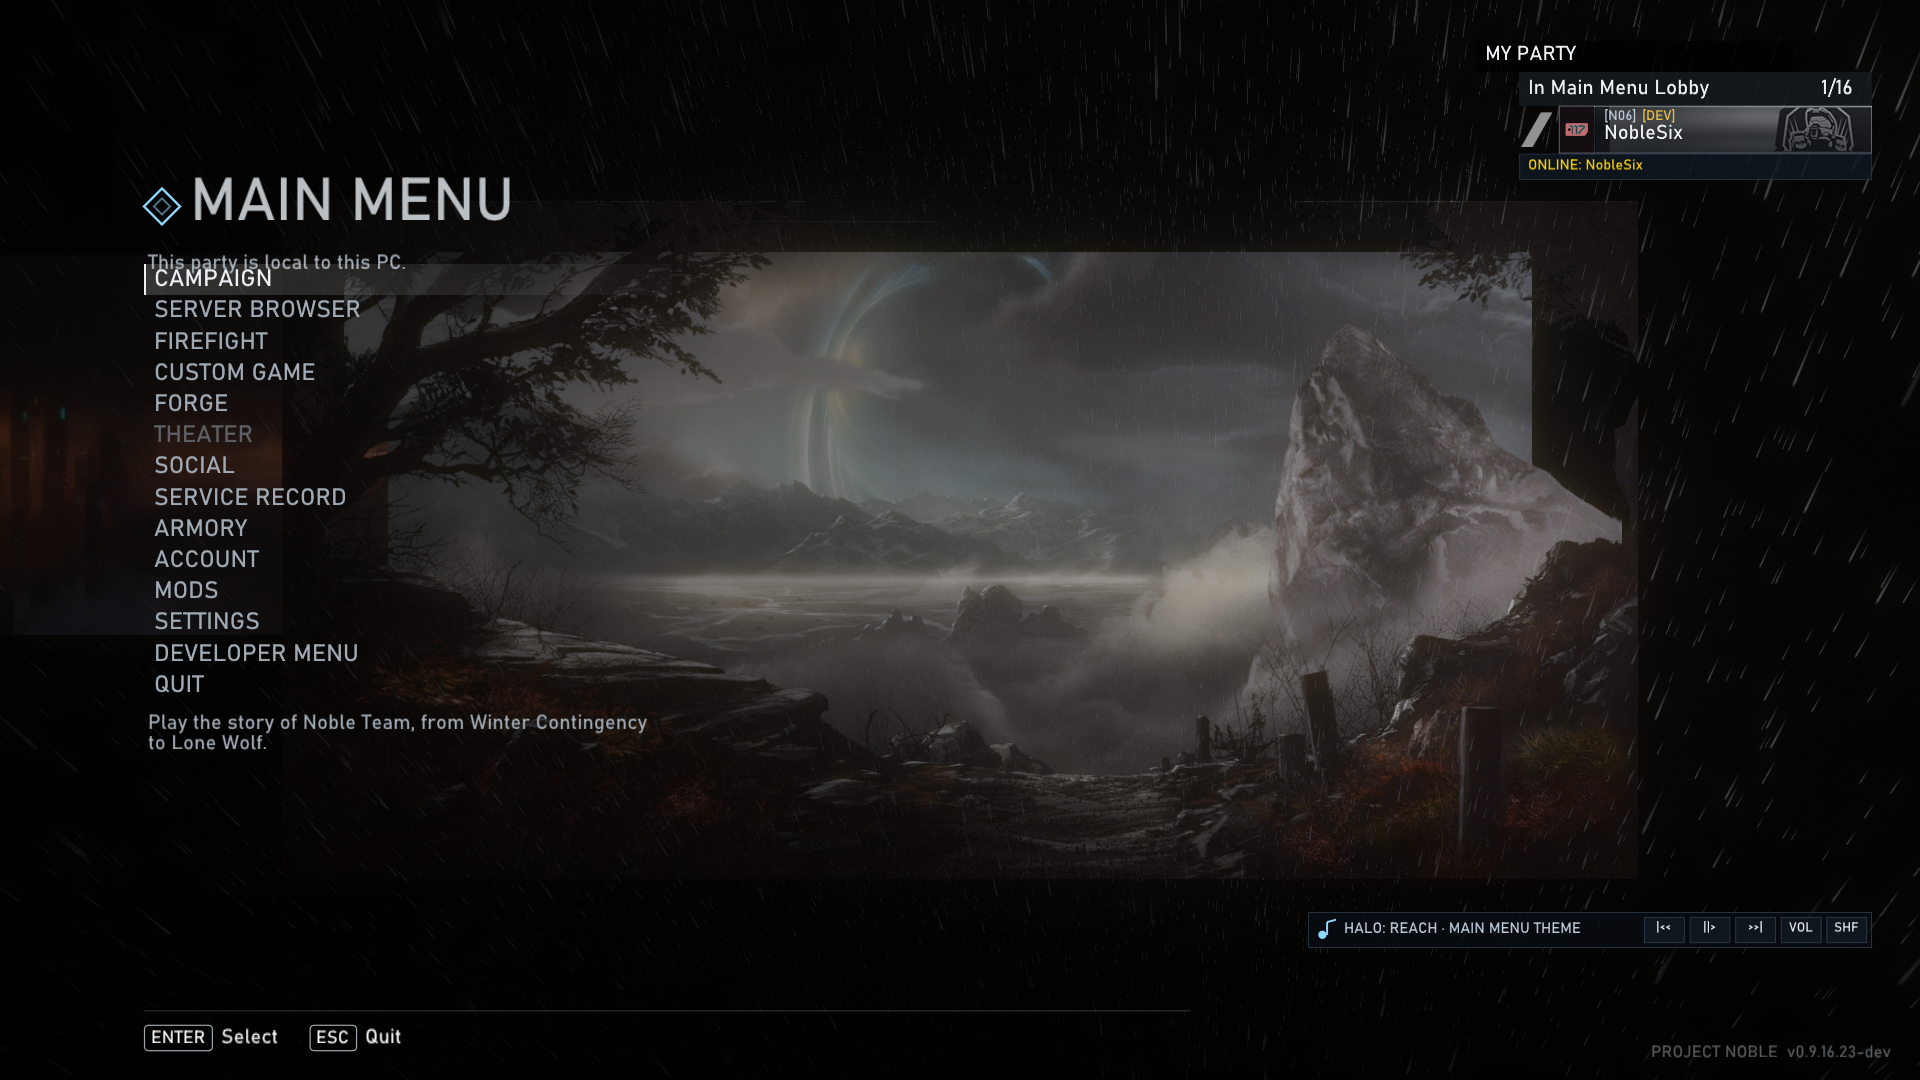
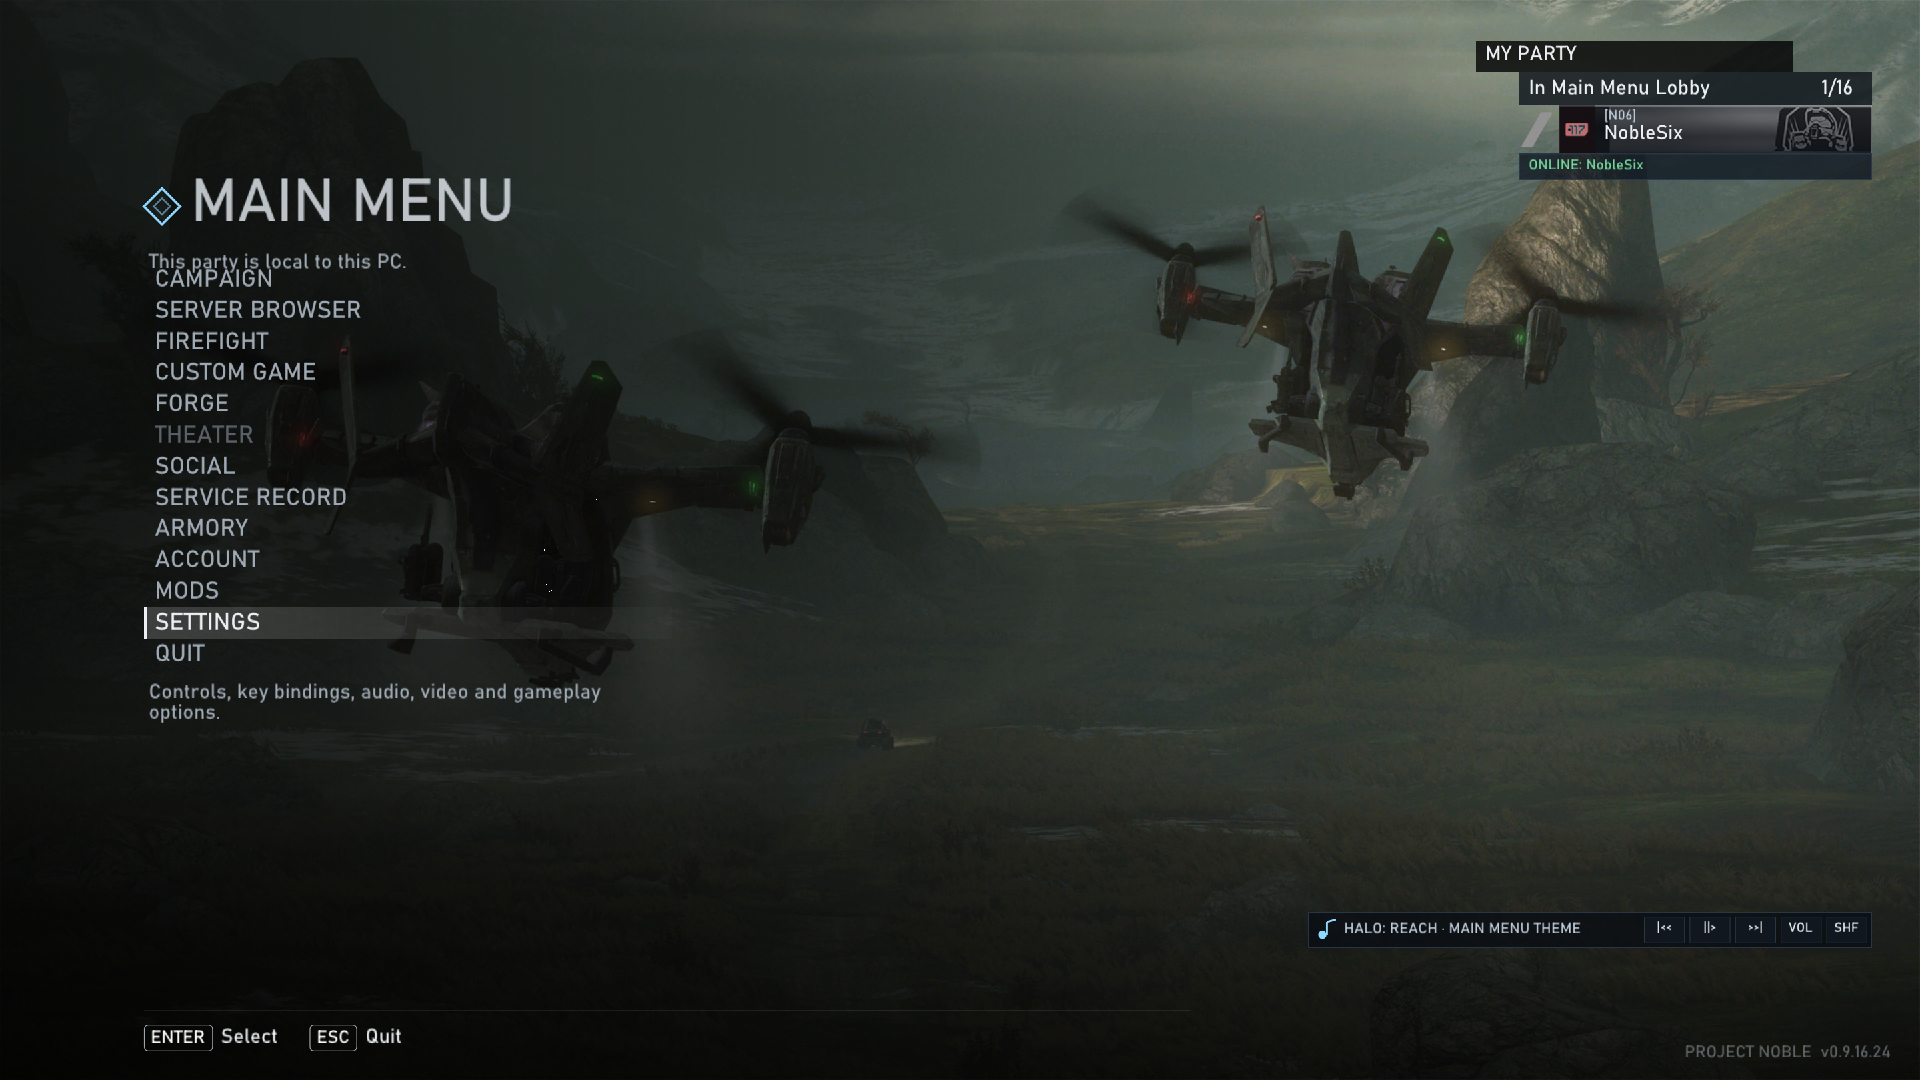
docs: 0.9.16.25 release notes and current screenshots

diff --git a/release-notes/v0.9.16.25.md b/release-notes/v0.9.16.25.md
@@ -1,0 +1,28 @@
+# Project Noble 0.9.16.25
+
+Crisp rendering everywhere, live windowed/borderless switching, and a stable custom menu background.
+
+## Highlights
+
+- **Live borderless full screen.** Windowed and borderless now switch immediately from SETTINGS > GRAPHICS; no game restart. The window is restyled/resized while the engine keeps running.
+- **Native-resolution rendering.** The engine renders at the display's native resolution (or the window's, if larger) instead of at a small window size. Windows then scales the image into the window, so menu text, HUD, subtitles and gameplay are crisp in both 720p windowed and 1080p borderless.
+- **Custom menu backgrounds actually show.** Every front-end screen now draws the selected menu background: your own images from data\ui\custom\backgrounds, or Noble/Reach art. The engine map's camera cuts are no longer visible behind the menu.
+- **Armory stays live and large.** The 3D Spartan/Elite remains the real in-engine model with the full-body framing and menu supersampling from 0.9.16.24.
+- **Hover/click coordinates fixed.** The overlay now feeds the mouse in back-buffer pixels after the Win32 backend has had its turn, so buttons no longer stay "hovered" or react at the wrong position when the window and render sizes differ.
+- **More display control.** Window mode and window size apply live; the graphics page explains that rendering stays at native resolution. Existing options (FPS limit, VSync, FXAA, brightness, FOV, menu background) remain.
+
+## Install
+
+1. Download Project-Noble-v0.9.16.25-win64.zip.
+2. Extract the folder somewhere writable.
+3. Run Noble.exe or play.bat.
+
+Requires Windows 10/11 x64, Steam with Halo: The Master Chief Collection and the Halo: Reach DLC, and a Direct3D 11 GPU.
+
+## Notes
+
+- The menu map is compiled into Noble.exe and unpacked to data\menumaps on first launch; the zip contains no loose map, CSV, mods or OBJ files.
+- Settings and appearance in data\userdata are preserved by the updater.
+- If you downloaded 0.9.16.24, this build supersedes it; the older release will be removed.
+
+Source and issues: https://github.com/O7OF/test-build-01
